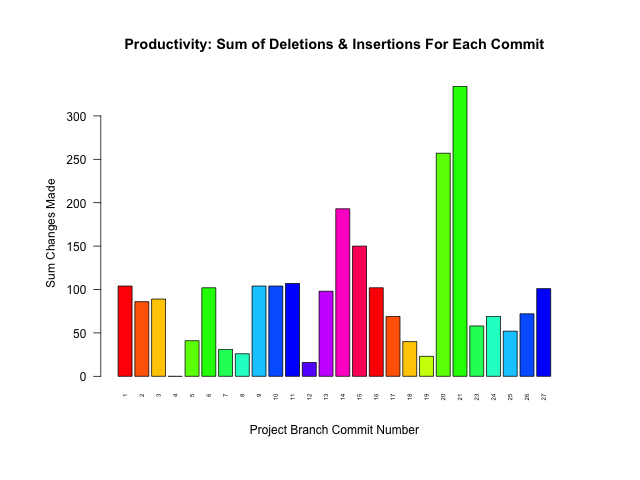
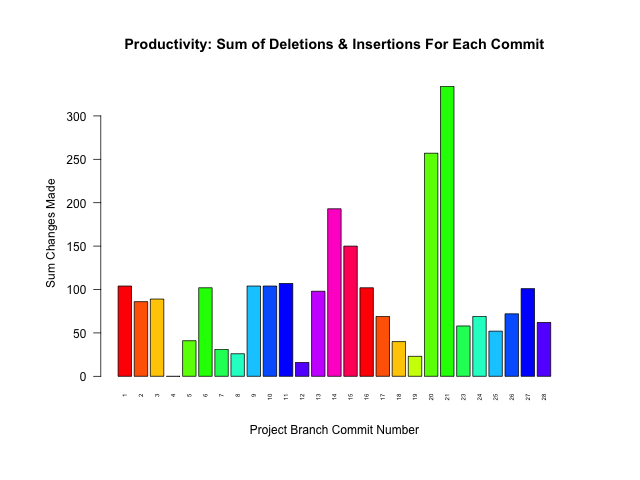
COMMIT #276

Changed region(s): [[0.1875, 0.1562, 0.875, 0.7812], [0.375, 0.8125, 0.8125, 0.8438]]

diff --git a/README.md b/README.md
@@ -17,8 +17,8 @@ ProjectName::BranchName.data
 
 Project Name | Last Updated | # Commits | # Branches | Branches Merged
 :---|:---:|:---:|:---:|:---:
-[Algorithms_practice](https://github.com/pierremigeon/Algorithms_practice)                          |  2023-08-02  |  27   |  7  |  100%  (7/7)
-[commit_tracker](https://github.com/pierremigeon/commit_tracker)                                    |  2023-08-01  |  274  |  1  |  100%  (1/1)
+[Algorithms_practice](https://github.com/pierremigeon/Algorithms_practice)                          |  2023-08-03  |  28   |  7  |  100%  (7/7)
+[commit_tracker](https://github.com/pierremigeon/commit_tracker)                                    |  2023-08-02  |  275  |  1  |  100%  (1/1)
 [FASTQ_examiner](https://github.com/pierremigeon/FASTQ_examiner)                                    |  2023-07-28  |  80   |  4  |  75%   (3/4)
 [learn_some_C.Plus.Plus](https://github.com/pierremigeon/learn_some_C.Plus.Plus)                    |  2023-07-17  |  79   |  2  |  50%   (1/2)
 [libft](https://github.com/pierremigeon/libft)                                                      |  2023-06-05  |  30   |  2  |  50%   (1/2)
